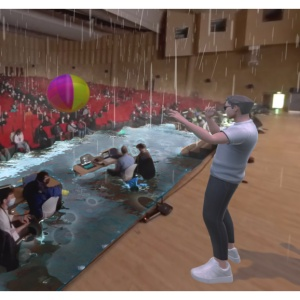
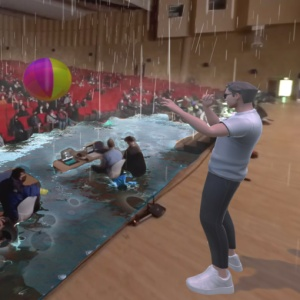
increased thumbnail scale

diff --git a/generate_thumbnails.py b/generate_thumbnails.py
@@ -11,47 +11,47 @@ import os
 cases = {	
 			'nguyen2025interaction':(3,((0.0,0.1),(0.3,0.36))), #'nguyen2025interaction':(3,((0.1,0.1),(0.2,0.4))), 
 			#'nguyen2025interaction':(4,((0.3,0.5),(0.25,0.4))), #'nguyen2025interaction':(3,((0.1,0.1),(0.2,0.4))), 
-			'nguyen2025full':(0,((0.26,0.74),(0.12,0.12))),
+			'nguyen2025full':(0,((0.26,0.75),(0.12,0.12))),
 			#'nguyen2025full':(0,((0.26,0.58),(0.1,0.5))),
 			'chalmers2025the':(0,((0.23,0.72),(0.1,0.1))),
 			'chalmers2024avatar360':(4,((0.08,0.51),(0.099,0.099))), #'chalmers2024avatar360':(0,((0.2,0.6),(0.35,0.35))),
 			'chen2024neural':(4,((0.15,0.05),(0.45,0.8))),
-			'rhee2023real':(0,((0.3,0.42),(0.34,0.34))),
+			'rhee2023real':(0,((0.325,0.45),(0.3,0.3))),
 			'chalmers2023real':(0,((0.36,0.7),(0.1,0.1))),
-			'zaman2023mrmac':(0,((0.15,0.31),(0.25,0.25))),
+			'zaman2023mrmac':(0,((0.2,0.4),(0.2,0.2))),
 			'chalmers2023motion':(0,((0.45,0.59),(0.15,0.15))),
 			'zhao2023deep':(0,((0.26,0.57),(0.2,0.2))),
 			'o2023simulating':(0,((0.16,0.5),(0.3,0.3))),
 			'weir2023lighting':(0,((0.25,0.5),(0.54,0.54))),
-			'chalmers2022illumination':(1,((0.08,0.15),(0.4,0.7))),
+			'chalmers2022illumination':(1,((0.08,0.14),(0.38,0.38))),
 			'chen2022casual':(1,((0.05,0.05),(0.17,0.25))),
 			'weir2022deep':(1,((0.15,0.345),(0.2,0.2))),
 			'weir2024full':(1,((0.14,0.3),(0.29,0.23))),
-			'rhee2022teleport':(0,((0.34,0.61),(0.15,0.18))),
-			'zhao2021adaptive':(0,((0.17,0.125),(0.13,0.25))),
+			'rhee2022teleport':(0,((0.34,0.61),(0.15,0.15))),
+			'zhao2021adaptive':(0,((0.175,0.16),(0.11,0.11))),
 			'suppan2021neural':(1,((0.11,0.7),(0.18,0.18))),
-			'chalmers2020reconstructing':(1,((0.05,0.8),(0.13,0.13))),
+			'chalmers2020reconstructing':(1,((0.08,0.8),(0.12,0.12))),
 			'chalmers2020illumination':(0,((0.3,0.05),(0.28,0.9))),
 			'thompson2019real':(0,((0.18,0.6),(0.2,0.2))),
 			'thompson2019underwater':(1,((0.05,0.05),(0.3,0.45))),
 			'thompson2019real-caustics':(0,((0.2,0.54),(0.27,0.4))),
-			'chalmers2018illumination':(32,((0.43,0.2),(0.5,0.9))),
+			'chalmers2018illumination':(32,((0.43,0.2),(0.52,0.52))),
 			'petikam2021art':(0,((0.26,0.11),(0.25,0.25))),
 			'welsford2021spectator':(0,((0.34,0.2),(0.25,0.25))),
-			'welsford2020asymmetric':(1,((0.2,0.13),(0.15,0.134))),
-			'rhee2020augmented':(2,((0.05,0.08),(0.35,0.387))),
-			'chalmers2020shadow':(2,((0.3,0.08),(0.15,0.4))),
-			'chalmers2020illumination':(3,((0.35,0.05),(0.2,0.3))),
+			'welsford2020asymmetric':(1,((0.23,0.16),(0.1,0.1))),
+			'rhee2020augmented':(2,((0.08,0.12),(0.25,0.25))),
+			'chalmers2020shadow':(2,((0.33,0.08),(0.1,0.1))),
+			'chalmers2020illumination':(3,((0.38,0.14),(0.17,0.17))),
 			'petikam2018visual':(6,((0.05,0.05),(0.14,0.24))),
-			'rhee2018mixed':(0,((0.25,0.05),(0.45,0.45))),
-			'rhee2018mr360':(0,((0.3,0.65),(0.14,0.25))),
-			'dean2018magic':(3,((0.65,0.05),(0.2,0.4))),
-			'rhee2017mr360':(0,((0.13,0.26),(0.2,0.24))),
+			'rhee2018mixed':(0,((0.3,0.15),(0.27,0.27))),
+			'rhee2018mr360':(0,((0.3,0.73),(0.14,0.14))),
+			'dean2018magic':(3,((0.65,0.12),(0.18,0.18))),
+			'rhee2017mr360':(0,((0.13,0.26),(0.2,0.2))),
 			'dodgson2017designing':(3,((0.1,0.5),(0.35,0.4))),
-			'ma2015synthesising':(5,((0.54,0.63),(0.18,0.3))),
-			'chalmers2014perceptually':(0,((0.25,0.695),(0.2,0.25))),
-			'chalmers2014sky':(0,((0.48,0.1),(0.15,0.27))),
-			'chalmers2013perceptually':(4,((0.51,0.5),(0.3,0.5)))
+			'ma2015synthesising':(5,((0.55,0.7),(0.15,0.15))),
+			'chalmers2014perceptually':(0,((0.29,0.7),(0.1,0.1))),
+			'chalmers2014sky':(0,((0.48,0.215),(0.125,0.125))),
+			'chalmers2013perceptually':(4,((0.53,0.57),(0.25,0.25)))
 		}
 
 def remove_whitespace(image_array):
